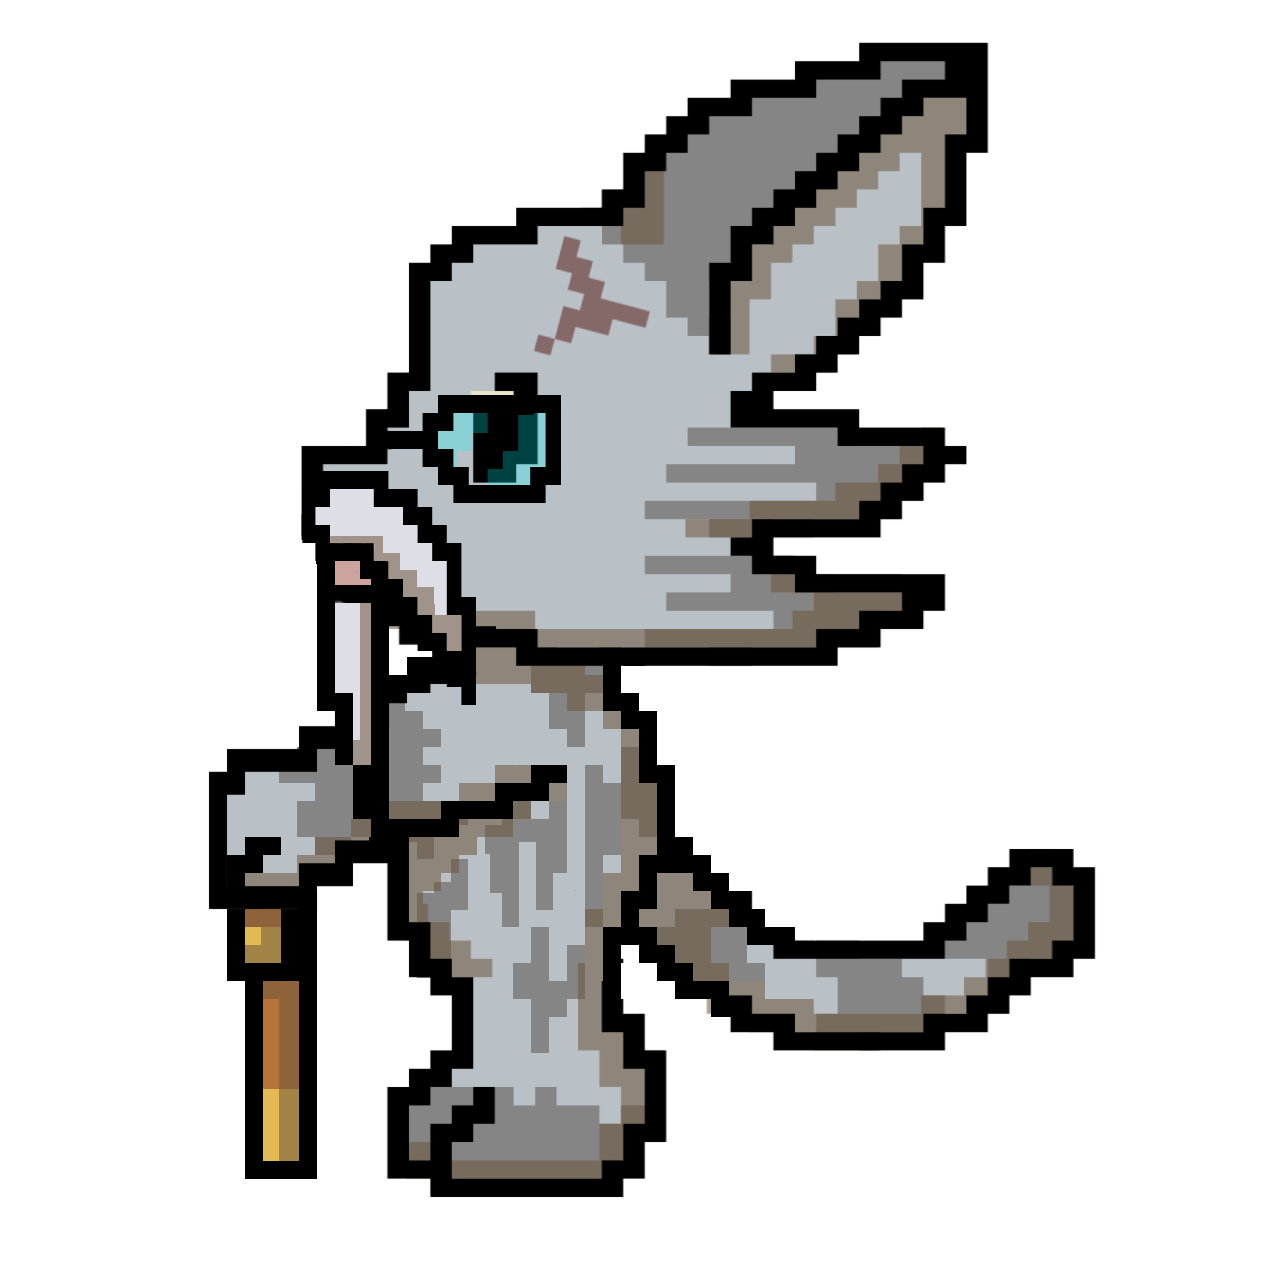
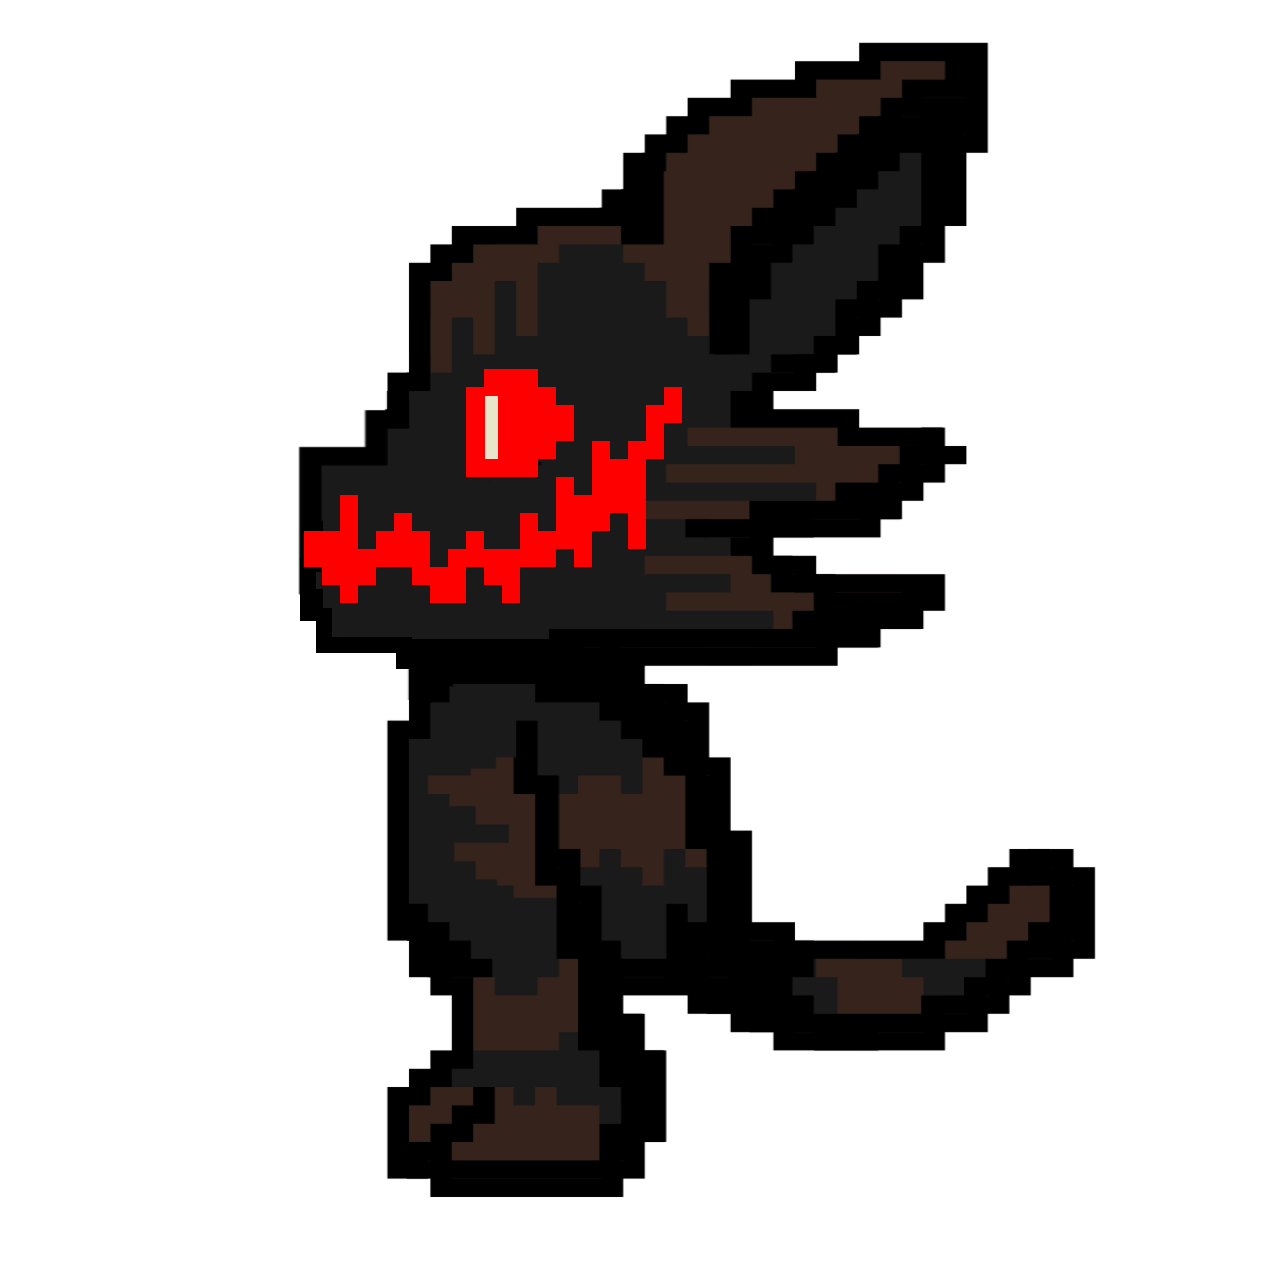
style : update character 16 for last planet + set character 20

Changed region(s): [[0.1562, 0.0312, 0.8438, 0.9375]]

diff --git a/common_functions/animation.js b/common_functions/animation.js
@@ -41,7 +41,7 @@ function setCharacterRight(numberPage, character){
 function setCharacterWarning(){
     // Création de l'élément image
     let the_image = document.createElement('img');
-    the_image.setAttribute('src', "../../images/p16down.png");
+    the_image.setAttribute('src', "../../images/p20down.png");
     
     // Style pour afficher l'image en grand et la positionner sur le côté gauche
     the_image.setAttribute('style', `

diff --git a/singleplayer/adventure/planet5/index.html b/singleplayer/adventure/planet5/index.html
@@ -102,11 +102,11 @@
 
         var nbPage = 6
         
-        setCharacterRight(1,"p16")
+        setCharacterRight(1,"p20")
         setCharacterRight(2,"p5")
-        setCharacterRight(3,"p16")
+        setCharacterRight(3,"p20")
         setCharacterRight(4,"p5")
-        setCharacterRight(5,"p16")
+        setCharacterRight(5,"p20")
         setCharacterLeft(6,chara)
 
         function goNextAnimation(){

diff --git a/singleplayer/adventure/planet1/index.html b/singleplayer/adventure/planet1/index.html
@@ -78,9 +78,9 @@
         const storedName = localStorage.getItem("pseudo");
         document.getElementById("pseudoToInsert").innerHTML = storedName;
         
-        setCharacterRight(1,"p16")
+        setCharacterRight(1,"p20")
         setCharacterLeft(2,chara)
-        setCharacterRight(3,"p16")
+        setCharacterRight(3,"p20")
         setCharacterLeft(4,chara)
 
         function goNextAnimation(){

diff --git a/singleplayer/adventure/planet7/index.html b/singleplayer/adventure/planet7/index.html
@@ -95,11 +95,11 @@
 
         var nbPage = 5
         
-        setCharacterRight(1,"p16")
+        setCharacterRight(1,"p20")
         setCharacterLeft(2,chara)
-        setCharacterRight(3,"p16")
+        setCharacterRight(3,"p20")
         setCharacterLeft(4,chara)
-        setCharacterRight(5,"p16")
+        setCharacterRight(5,"p20")
 
         function goNextAnimation(){
             goLanding()

diff --git a/singleplayer/adventure/planet13/index.html b/singleplayer/adventure/planet13/index.html
@@ -118,10 +118,10 @@
         
         setCharacterRight(1,"p14")
         setCharacterLeft(2,chara)
-        setCharacterRight(3,"p16")
+        setCharacterRight(3,"p20")
         setCharacterRight(4,"p14")
         setCharacterLeft(5,chara)
-        setCharacterRight(6,"p16")
+        setCharacterRight(6,"p20")
         setCharacterLeft(7,chara)
 
         function goNextAnimation(){

diff --git a/singleplayer/adventure/planet13/landing.html b/singleplayer/adventure/planet13/landing.html
@@ -85,11 +85,11 @@
 
         var nbPage = 5
         
-        setCharacterRight(1,"p16")
+        setCharacterRight(1,"p20")
         setCharacterLeft(2,chara)
         setCharacterRight(3,"p14")
         setCharacterLeft(4,chara)
-        setCharacterRight(5,"p16")
+        setCharacterRight(5,"p20")
 
         function goNextAnimation(){
             goIntro()

diff --git a/singleplayer/adventure/planet6/index.html b/singleplayer/adventure/planet6/index.html
@@ -94,10 +94,10 @@
 
         var nbPage = 5
         
-        setCharacterRight(1,"p16")
+        setCharacterRight(1,"p20")
         setCharacterRight(2,"p7")
         setCharacterLeft(3,chara)
-        setCharacterRight(4,"p16")
+        setCharacterRight(4,"p20")
         setCharacterLeft(5,chara)
 
         function goNextAnimation(){

diff --git a/singleplayer/adventure/planet11/index.html b/singleplayer/adventure/planet11/index.html
@@ -84,9 +84,9 @@
         var nbPage = 4
         
         setCharacterRight(1,"p12")
-        setCharacterRight(2,"p16")
+        setCharacterRight(2,"p20")
         setCharacterLeft(3,chara)
-        setCharacterRight(4,"p16")
+        setCharacterRight(4,"p20")
 
         function goNextAnimation(){
             goLanding()

diff --git a/singleplayer/adventure/planet8/index.html b/singleplayer/adventure/planet8/index.html
@@ -86,9 +86,9 @@
         var nbPage = 4
         
         
-        setCharacterRight(1,"p16")
+        setCharacterRight(1,"p20")
         setCharacterLeft(2,chara)
-        setCharacterRight(3,"p16")
+        setCharacterRight(3,"p20")
         setCharacterLeft(4,chara)
 
         function goNextAnimation(){

diff --git a/singleplayer/adventure/planet12/landing.html b/singleplayer/adventure/planet12/landing.html
@@ -69,9 +69,9 @@
 
         var nbPage = 3
         
-        setCharacterRight(1,"p16")
+        setCharacterRight(1,"p20")
         setCharacterLeft(2,chara)
-        setCharacterRight(3,"p16")
+        setCharacterRight(3,"p20")
 
         function goNextAnimation(){
             goIntro()

diff --git a/singleplayer/adventure/planet14/laby.html b/singleplayer/adventure/planet14/laby.html
@@ -161,8 +161,8 @@
     }
     document.getElementById('page1').style.display = "block";
     
-    construct_medium_board_in_darkness(1,10)
-    moveBoss(10);
+    construct_medium_board_in_darkness(1,16)
+    moveBoss(16);
     create_shuriken_poweritem()
 
     function checkKey(e) {

diff --git a/singleplayer/adventure/planet12/index.html b/singleplayer/adventure/planet12/index.html
@@ -75,8 +75,8 @@
 
         var nbPage = 3
         
-        setCharacterRight(1,"p16")
-        setCharacterRight(2,"p16")
+        setCharacterRight(1,"p20")
+        setCharacterRight(2,"p20")
         setCharacterLeft(3,chara)
 
         function goNextAnimation(){
